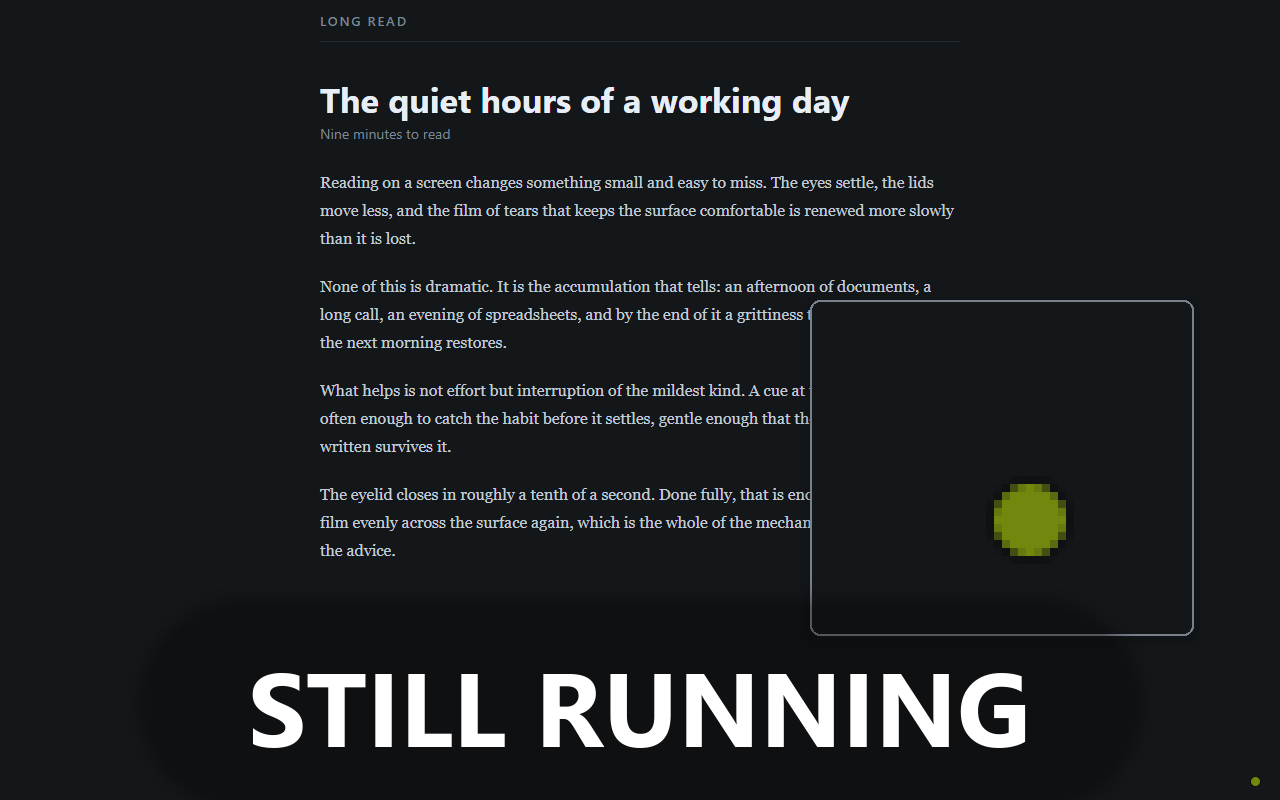
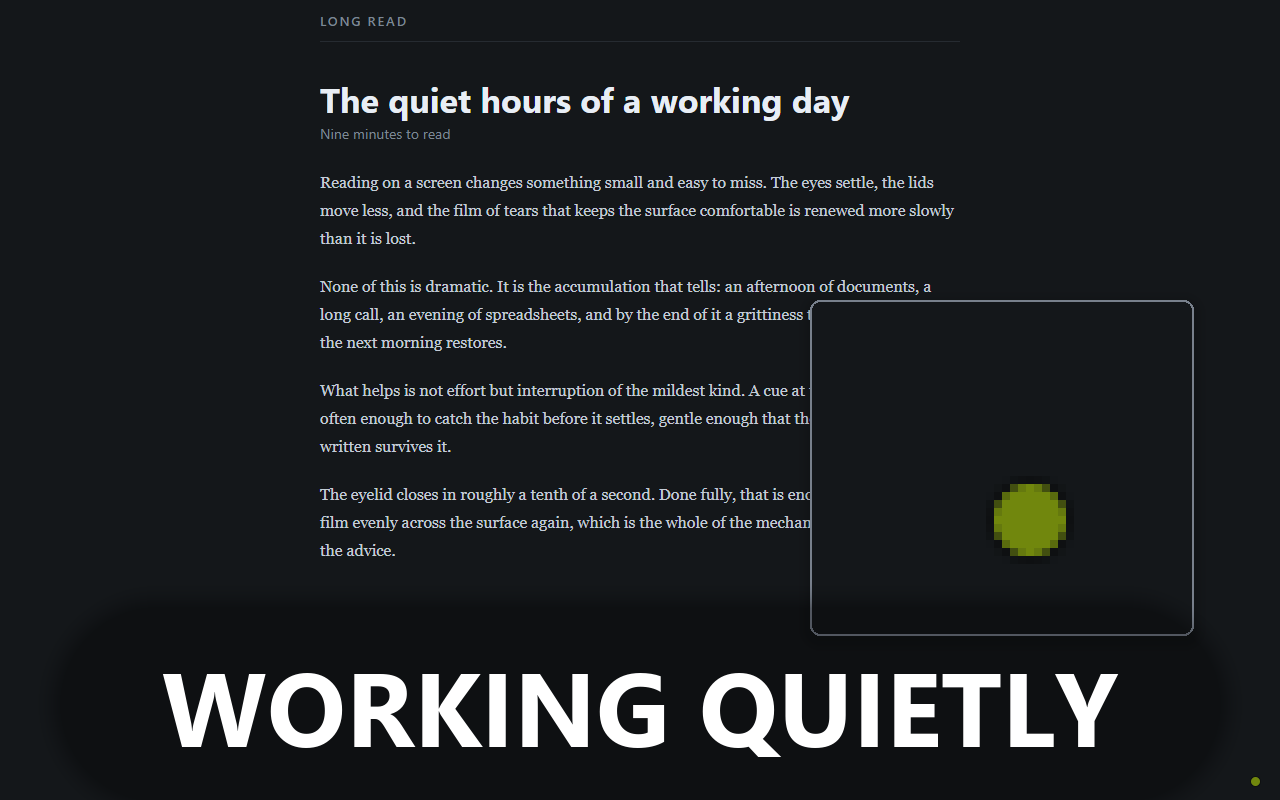
Store screenshot: WORKING QUIETLY, not STILL RUNNING
"Still running" reads as though something might have stopped. The dot says
the extension is on and staying out of the way, which is the promise.

Changed region(s): [[0.125, 0.8438, 0.875, 0.9688]]

diff --git a/store/make_chrome_assets.py b/store/make_chrome_assets.py
@@ -35,7 +35,7 @@ SHOTS = [
     ("4-settings", "CUSTOMISABLE", 0.86),
     ("5-popup", "SNOOZE ANY TIME", 0.86),
     ("2-break", "TAKE A BREAK", 0.62),
-    ("3-corner-dot", "STILL RUNNING", 0.88),
+    ("3-corner-dot", "WORKING QUIETLY", 0.88),
 ]
 
 

diff --git a/store/chrome/LISTING.md b/store/chrome/LISTING.md
@@ -16,7 +16,7 @@ Only the long description below is English-only.
 | Icon (128×128) | taken from the package; `icon-128.png` if a field asks for the file |
 
 Each carries one word across it, as the Windows listing puts BLINK across
-its own: BLINK, CUSTOMISABLE, SNOOZE ANY TIME, TAKE A BREAK, STILL RUNNING.
+its own: BLINK, CUSTOMISABLE, SNOOZE ANY TIME, TAKE A BREAK, WORKING QUIETLY.
 A lime circle over an article could otherwise be anything, and a caption in
 small print at the top does not get read. The demo page is dark because that is where the
 cue's own default strength reads as it really is — on a white page a 34%
